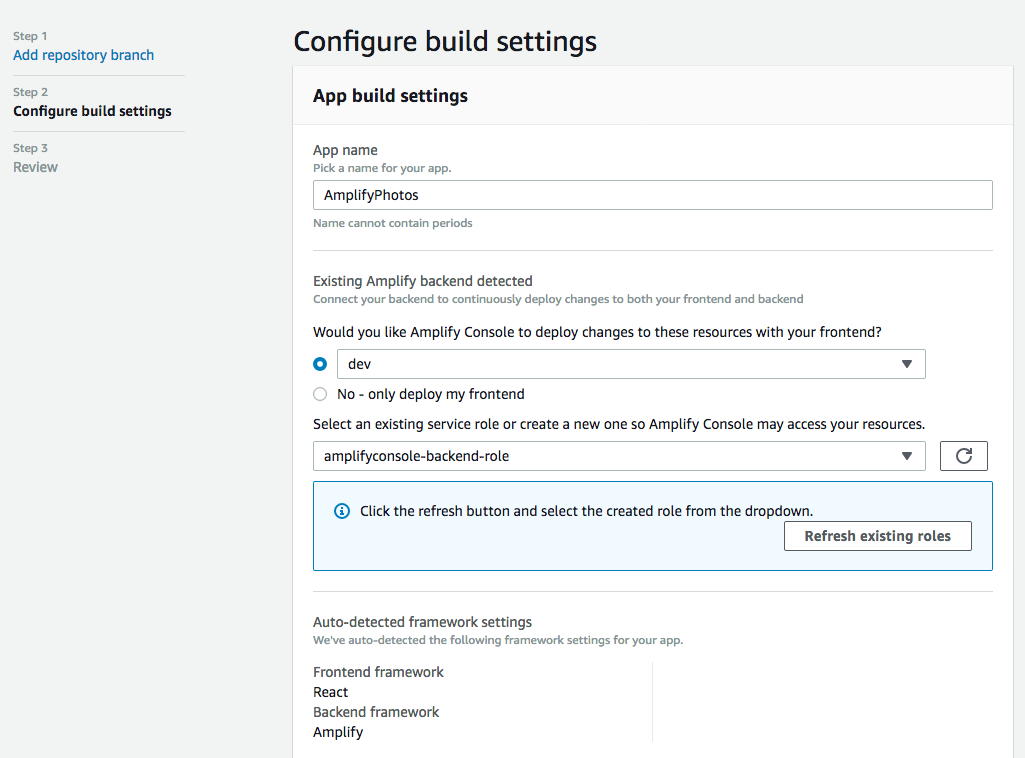
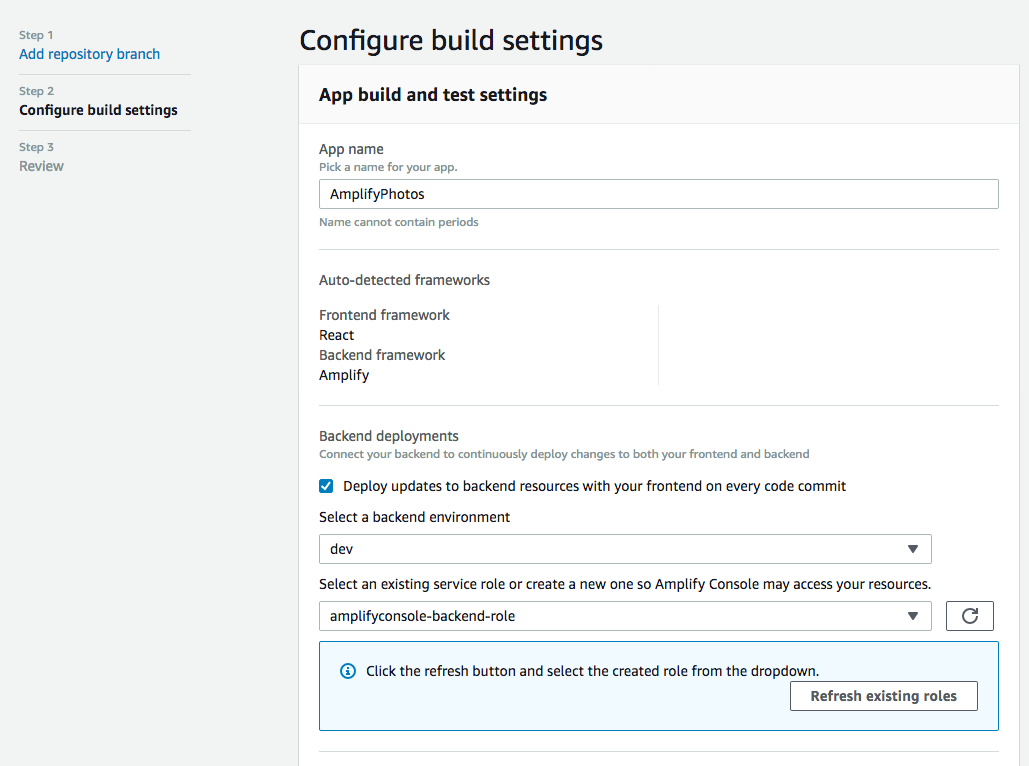
Fix user context

diff --git a/MOB303/3_API/AppDev.md b/MOB303/3_API/AppDev.md
@@ -32,7 +32,6 @@ import { Button, Form, Grid, Header, Input } from 'semantic-ui-react';
 import { API, graphqlOperation } from 'aws-amplify';
 import { Link } from "@reach/router";
 
-import useAmplifyAuth from './useAmplifyAuth';
 import { listAlbums as listAlbumsQuery } from './graphql/queries';
 
 const initalState = {
@@ -83,9 +82,8 @@ function AlbumList(props) {
   );
 }
 
-function Albums(props) {
+function Albums({ user }) {
   const [state, dispatch] = useReducer(reducer, initalState);
-  const { state: { user } } = useAmplifyAuth();
 
   useEffect(() => {
     listAlbums(dispatch)
@@ -232,9 +230,8 @@ function reducer(state, action) {
 Add a new `useEffect` Hook to the Albums component. This is where we will actually subscribe to changes in data, specifically the `onCreateAlbum` subscription. When new data arrives, we call the reducer to append the new album to the component state.
 
 ``` diff
-function Albums(props) {
+function Albums({ user }) {
   const [state, dispatch] = useReducer(reducer, initalState);
-  const { state: { user } } = useAmplifyAuth();
 
 +   useEffect(() => {
 +      if (!user) { return; }
@@ -278,8 +275,8 @@ Further down the page, add the new route:
 ``` diff
       <Container text style={{ marginTop: '5em' }}>
         <Router>
-          <Albums path='/' />
-+         <AlbumDetail path='/album/:albumId'/>
+          <Albums path='/' user={ user } />
++         <AlbumDetail path='/album/:albumId' user={ user } />
         </Router>
       </Container> 
 ```
@@ -325,7 +322,7 @@ function PhotoGrid(props) {
   );
 }
 
-function AlbumDetail(props) {
+function AlbumDetail({ albumId, user }) {
   const {
     aws_user_files_s3_bucket_region: region,
     aws_user_files_s3_bucket: bucket
@@ -346,8 +343,8 @@ function AlbumDetail(props) {
 
   useEffect(() => {
     dispatch({ type: 'init' });
-    getAlbum(props.albumId, dispatch);
-  }, [props.albumId]);
+    getAlbum(albumId, dispatch);
+  }, [albumId]);
   
   function reducer(state, action) {
     switch(action.type) {
@@ -434,7 +431,7 @@ function AlbumDetail(props) {
 export default AlbumDetail;
 ```
 
-After saving the file, return to the browser (it's safe to ignore unused warnings). Click on the name of one of your albums to view the detail page.
+After saving the file, return to the browser (it's safe to ignore unused warnings). Click on the name of the first album to view the detail page.
 
 ![Album Detail](./images/3_album_detail.png)
 

diff --git a/MOB303/5_Hosting/README.md b/MOB303/5_Hosting/README.md
@@ -51,7 +51,9 @@ Select your newly created repository (AmplifyPhotos) and branch (master). Click 
 
 ![Add Branch](./images/3_select_repository.png)
 
-We need to make two changes to the default build settings, both in the __Existing Amplify backend detected__ section. First, for the question "Would you like Amplify Console to deploy changes to these resources with your frontend?" select "dev".
+We need to make two changes to the default build settings, both in the __Existing Amplify backend detected__ section. First, for the backend "Select a backend environment" select "dev".
+
+![Create Amplify Service Role](./images/4_select_dev_backend.png)
 
 Second, if you have not used Amplify Console before, we need to create a new service role. Click the "Create new role" button. A new tab titled "Create role" will open. Follow the Role creation flow as shown in the following screens, clicking on the blue button in the lower corner on each step (accept default selections):
 
@@ -61,16 +63,9 @@ Back in Amplify Console, the screen should look like the following (you may need
 
 ![Configure Build](./images/5_configure_build.png)
 
-At the bottom of the "Configure build settings" page, expand "Advanced settings" and click the "Add package version override" button. Select "Amplify CLI". The Version for Amplify CLI should be "latest" as shown below.
-
-# UPDATE LATEST TO KNOWN VERSION
-
-
-![Configure Advanced Build Settings](./images/6_advanced_build_settings.png)
-
 Click "Next" at the bottom of the page.
 
-Review the settings and click "Save and Deploy." After a few minutes, your site will be ready to preview.
+Review the settings and click "Save and Deploy."
 
 ![Configure Build](./images/7_build_in_progress.png)
 

diff --git a/MOB303/4_Trigger/README.md b/MOB303/4_Trigger/README.md
@@ -292,7 +292,7 @@ The status of your resources should be as shown below:
 
 * Are you sure you want to continue? __Y__
 
-When finished, go back to the browser and click on the album you created earlier. Click the "Add Photo" button and upload a photo of your choosing.
+When finished `push` is finished, go back to the browser and click on the first album you created earlier. Click the "Add Photo" button and upload a photo of your choosing. Unlike the previous photo upload, this one will trigger the Lambda function we just created, which will create a thumbnail of the image.
 
 > TIP: You can restart the React dev server using `npm start`.
 
@@ -354,11 +354,11 @@ function PhotoCard(props) {
         }
       </Card.Content>
     </Card>
-  )
+  );
 };
 ```
 
-Save the file, and if necessary, refresh the page. The Album Detail page should now include a thumbnail view of each uploaded photo, along with geolocation data where available.
+Save the file, and if necessary, refresh the page. The Album Detail page should now include a thumbnail view of the second uploaded photo, along with geolocation data if available (note that some images will not include EXIF data for various reasons). The first photo will not have a thumbnail version of the image.
 
 In the next module, we will deploy our application!
 

diff --git a/MOB303/6_MachineLearning/README.md b/MOB303/6_MachineLearning/README.md
@@ -273,7 +273,7 @@ return state.isLoading ? (
 -          <PhotoPicker preview onPick={(data) => createPhoto(data, state, dispatch)} />
 -        </Modal.Content>
 -      </Modal>
-+      { state.currentUser === state.album.owner &&
++      { user && user.username === state.album.owner &&
 +        <MLPhotoPickerModal
 +            open={openModal}
 +            onClose={() => { showModal(false) }}
@@ -292,7 +292,7 @@ return state.isLoading ? (
 
 Save your changes.
 
-Return to the application preview / React development server. Click on an album and then the "Add Photo" button to see the new photo picker:
+Return to the application preview / React development server. Click on an album and then the "Add Photo" button to see the new photo picker (note that the picker is not fully functional yet):
 
 ![Enhanced Photo Picker](./images/1_enhanced_photo_picker.png)
 

diff --git a/MOB303/1_Auth/README.md b/MOB303/1_Auth/README.md
@@ -209,7 +209,7 @@ import { Router, Link } from "@reach/router";
 import { withAuthenticator } from 'aws-amplify-react';
 import useAmplifyAuth from './useAmplifyAuth';
 
-
+export const UserContext = React.createContext();
 
 function App() {
   const { state: { user }, onSignOut } = useAmplifyAuth();
@@ -239,7 +239,9 @@ function App() {
       </Menu>
 
       <Container text style={{ marginTop: '5em' }}>
-        <p>To be updated...</p>
+        <UserContext.Provider user={ user }>
+          <p>To be updated...</p>
+        </UserContext.Provider>
       </Container>    
     </div>
   );
